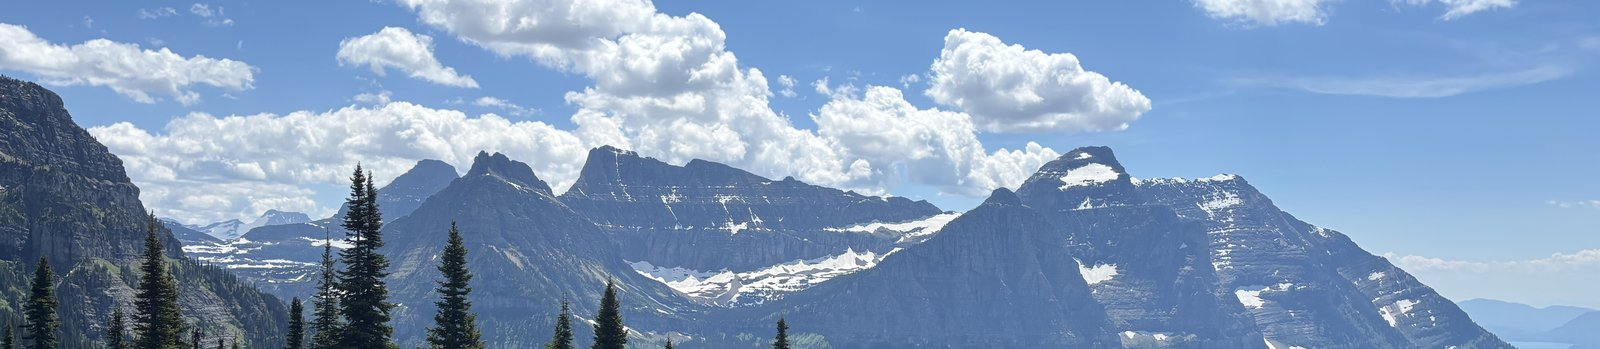
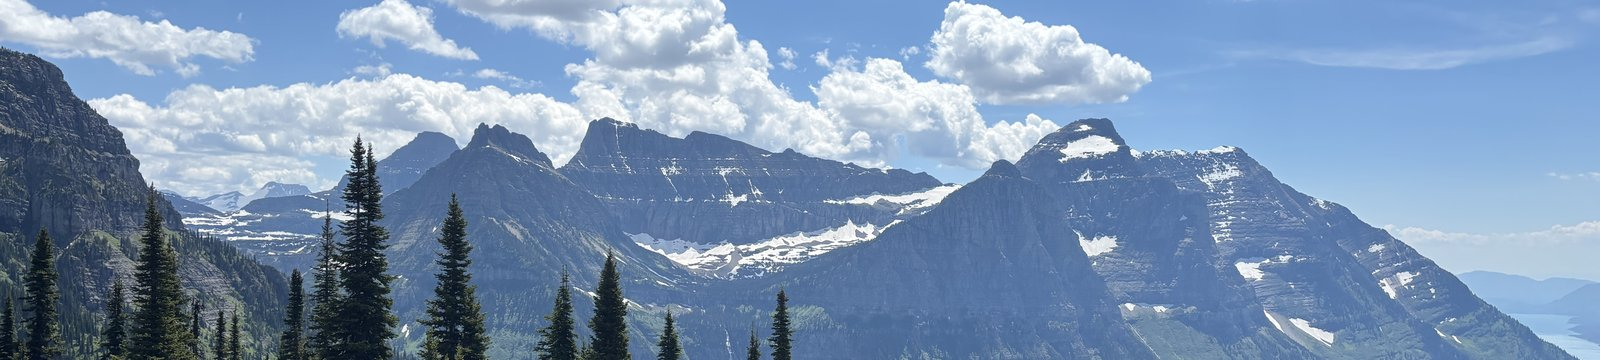
Upgrade fonts, colors, and publication links
- Add Inter (body) and Playfair Display (headings) via Google Fonts
- Warm off-white background (#faf8f5) for elegant feel
- Softer text color (#2d3436) for readability
- Publication titles now link to journal pages (ScienceDirect)
- Section headings use Playfair Display serif font
- Re-crop banner to show more trees alongside clouds and mountains

diff --git a/_sass/theme/_default_light.scss b/_sass/theme/_default_light.scss
@@ -4,8 +4,8 @@
 /* Color codes used for the theme */
 $primary-color              : #2f7f93;
 $gray                       : #7a8288;
-$dark-gray                  : mix(#000, $gray, 40%);
-$darker-gray                : mix(#000, $gray, 60%);
+$dark-gray                  : #2d3436;
+$darker-gray                : #1a1a2e;
 $light-gray                 : mix(#fff, $gray, 50%);
 $lighter-gray               : mix(#fff, $gray, 90%);
 
@@ -29,16 +29,16 @@ $sidebar-screen-min-width   : 1024px;
 /* Default light theme for the site */
 :root {
     --global-base-color                 : #{$primary-color};
-    --global-bg-color                   : #fff;
-    --global-footer-bg-color            : #f2f3f3;
+    --global-bg-color                   : #faf8f5;
+    --global-footer-bg-color            : #f0ede8;
     --global-border-color               : #{$lighter-gray};
     --global-dark-border-color          : #bdc1c4;
     --global-code-background-color      : #fafafa;
     --global-code-text-color            : #{$darker-gray};
     --global-fig-caption-color          : mix(#fff,  #{$dark-gray}, 25%);
-    --global-link-color                 : #52adc8;
-    --global-link-color-hover           : mix(#000, #2f7f93, 25%);
-    --global-link-color-visited         : mix(#fff, #2f7f93, 25%);  
+    --global-link-color                 : #2a7ae2;
+    --global-link-color-hover           : #1a5bb5;
+    --global-link-color-visited         : #4a6fa5;  
     --global-masthead-link-color        : #{$dark-gray};
     --global-masthead-link-color-hover  : mix(#000, #{$gray}, 25%);    
     --global-text-color                 : #{$dark-gray};

diff --git a/_sass/_themes.scss b/_sass/_themes.scss
@@ -15,7 +15,7 @@ $indent-var                 : 1.3em;
 
 /* System typefaces */
 $serif                      : Georgia, Times, serif;
-$sans-serif                 : -apple-system, ".SFNSText-Regular", "San Francisco", "Roboto", "Segoe UI", "Helvetica Neue", "Lucida Grande", Arial, sans-serif;
+$sans-serif                 : "Inter", -apple-system, "Roboto", "Segoe UI", "Helvetica Neue", Arial, sans-serif;
 $monospace                  : Monaco, Consolas, "Lucida Console", monospace;
 
 /* Sans serif typefaces */
@@ -40,7 +40,7 @@ $type-size-7                : 0.6875em; // ~11px
 $type-size-8                : 0.625em;  // ~10px
 
 $global-font-family         : $sans-serif;
-$header-font-family         : $sans-serif;
+$header-font-family         : "Playfair Display", Georgia, serif;
 $caption-font-family        : $serif;
 
 /* ==========================================================================

diff --git a/_includes/head/custom.html b/_includes/head/custom.html
@@ -19,4 +19,9 @@
 <link rel="icon" href="/images/favicon.ico"/>
 <meta name="theme-color" content="var(--global-bg-color)"/>
 
+<!-- Google Fonts: Inter + Playfair Display -->
+<link rel="preconnect" href="https://fonts.googleapis.com">
+<link rel="preconnect" href="https://fonts.gstatic.com" crossorigin>
+<link href="https://fonts.googleapis.com/css2?family=Inter:wght@300;400;500;600;700&family=Playfair+Display:wght@400;600;700&display=swap" rel="stylesheet">
+
 <!-- end custom head snippets -->

diff --git a/_pages/research.md b/_pages/research.md
@@ -18,6 +18,15 @@ author_profile: true
   font-weight: bold;
   font-size: 1.05em;
 }
+.paper-title a {
+  color: #2d3436;
+  text-decoration: none;
+  border-bottom: 1px solid transparent;
+  transition: border-color 0.2s;
+}
+.paper-title a:hover {
+  border-bottom-color: #2a7ae2;
+}
 .paper-authors {
   margin-top: 0.3em;
   color: #444;
@@ -41,9 +50,10 @@ author_profile: true
   border: 1px solid #eee;
 }
 .section-heading {
-  font-size: 1.3em;
-  font-weight: bold;
-  color: #2a7ae2;
+  font-family: "Playfair Display", Georgia, serif;
+  font-size: 1.4em;
+  font-weight: 600;
+  color: #2d3436;
   margin-top: 1.5em;
   margin-bottom: 0.8em;
   padding-bottom: 0.3em;
@@ -56,7 +66,7 @@ author_profile: true
 <div class="paper">
   <div class="paper-flex">
     <div class="paper-text">
-      <div class="paper-title">Information for Vision: Experimental Evidence on Nudging Low-income Students to Wear Eyeglasses <a href="/files/papers/eyeglasses.pdf">[PDF]</a></div>
+      <div class="paper-title"><a href="https://www.sciencedirect.com/science/article/pii/S0272775726000774" target="_blank">Information for Vision: Experimental Evidence on Nudging Low-income Students to Wear Eyeglasses</a></div>
       <div class="paper-authors"><a href="https://sites.google.com/view/jiushengzhu">Jiusheng Zhu</a>, <a href="https://andyxinjiezhang.wixsite.com/myprofile">Xinjie Zhang</a>, <strong>Zoey Yu Zhao</strong>, <a href="https://xiaoyangye.github.io/">Xiaoyang Ye</a>.</div>
       <div class="paper-venue">Economics of Education Review, 2026.</div>
     </div>
@@ -73,7 +83,7 @@ author_profile: true
 <div class="paper">
   <div class="paper-flex">
     <div class="paper-text">
-      <div class="paper-title">The Long-term Influence of Education Resources Allocation on the Migration: Evidence from the China's Rural School Consolidation Policy <a href="/files/papers/school_consolidation.pdf">[PDF]</a></div>
+      <div class="paper-title"><a href="https://www.sciencedirect.com/science/article/pii/S1049007824000058" target="_blank">The Long-term Influence of Education Resources Allocation on the Migration: Evidence from the China's Rural School Consolidation Policy</a></div>
       <div class="paper-authors"><strong>Zoey Yu Zhao</strong>, Hui Du, Rui Li, Guangsu Zhou.</div>
       <div class="paper-venue">Journal of Asian Economics, 2024.</div>
     </div>
